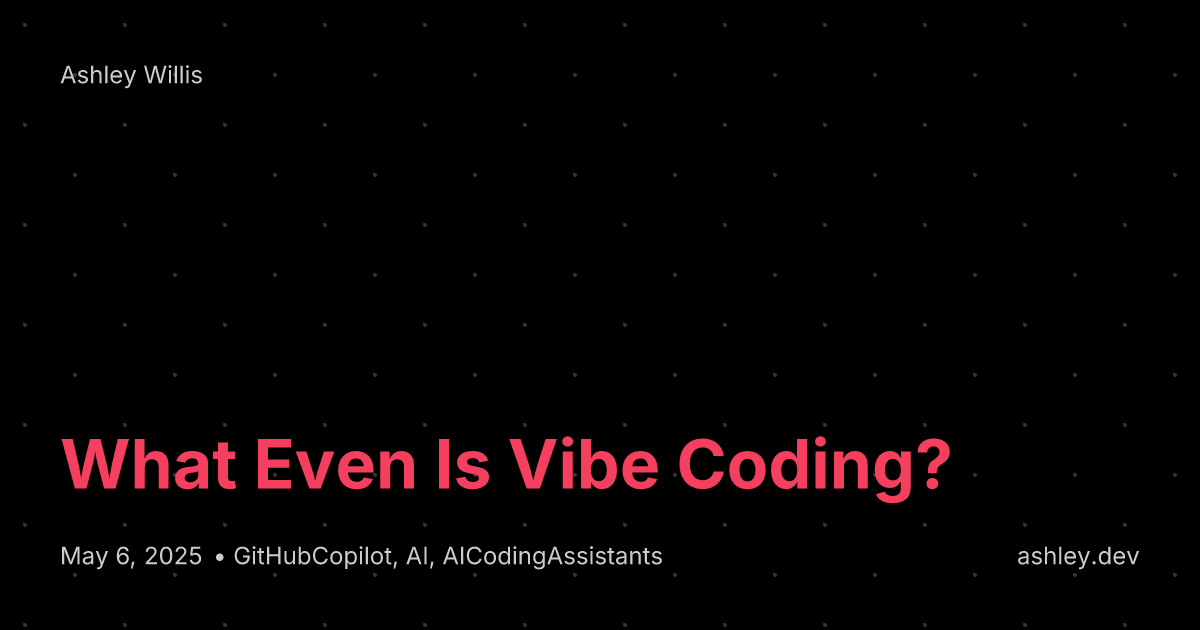
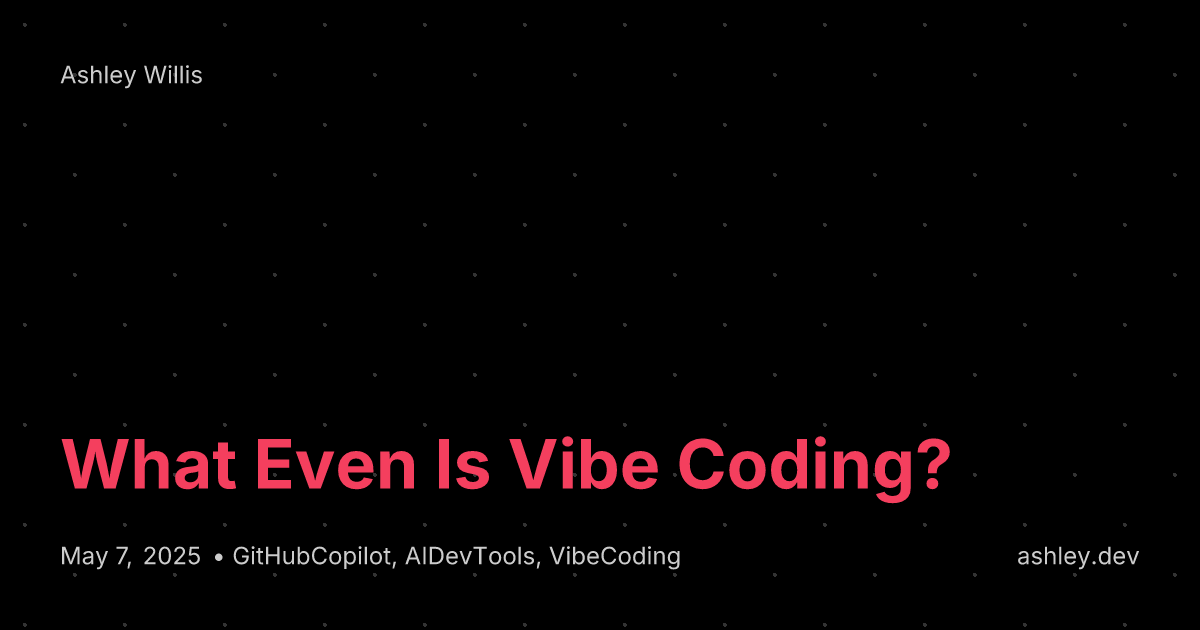
Fix date formatting in OG image generation for correct timezone handling

Changed region(s): [[0.0925, 0.8444, 0.5858, 0.9048]]

diff --git a/src/utils/og/generateOgImage.ts b/src/utils/og/generateOgImage.ts
@@ -51,11 +51,14 @@ export async function generateOgImage(post: CollectionEntry<'posts'>) {
   const title = post.data.title;
   const authorName = 'Ashley Willis';
   
-  // Format the date
-  const formattedDate = new Date(post.data.date).toLocaleDateString('en-US', {
+  // Format the date with explicit UTC handling to prevent timezone issues
+  const postDate = new Date(post.data.date);
+  // Add a day to ensure correct date display
+  const formattedDate = postDate.toLocaleDateString('en-US', {
     year: 'numeric',
     month: 'long',
     day: 'numeric',
+    timeZone: 'UTC'  // Force UTC timezone to prevent date shifting
   });
 
   // Get tags as a string if they exist
